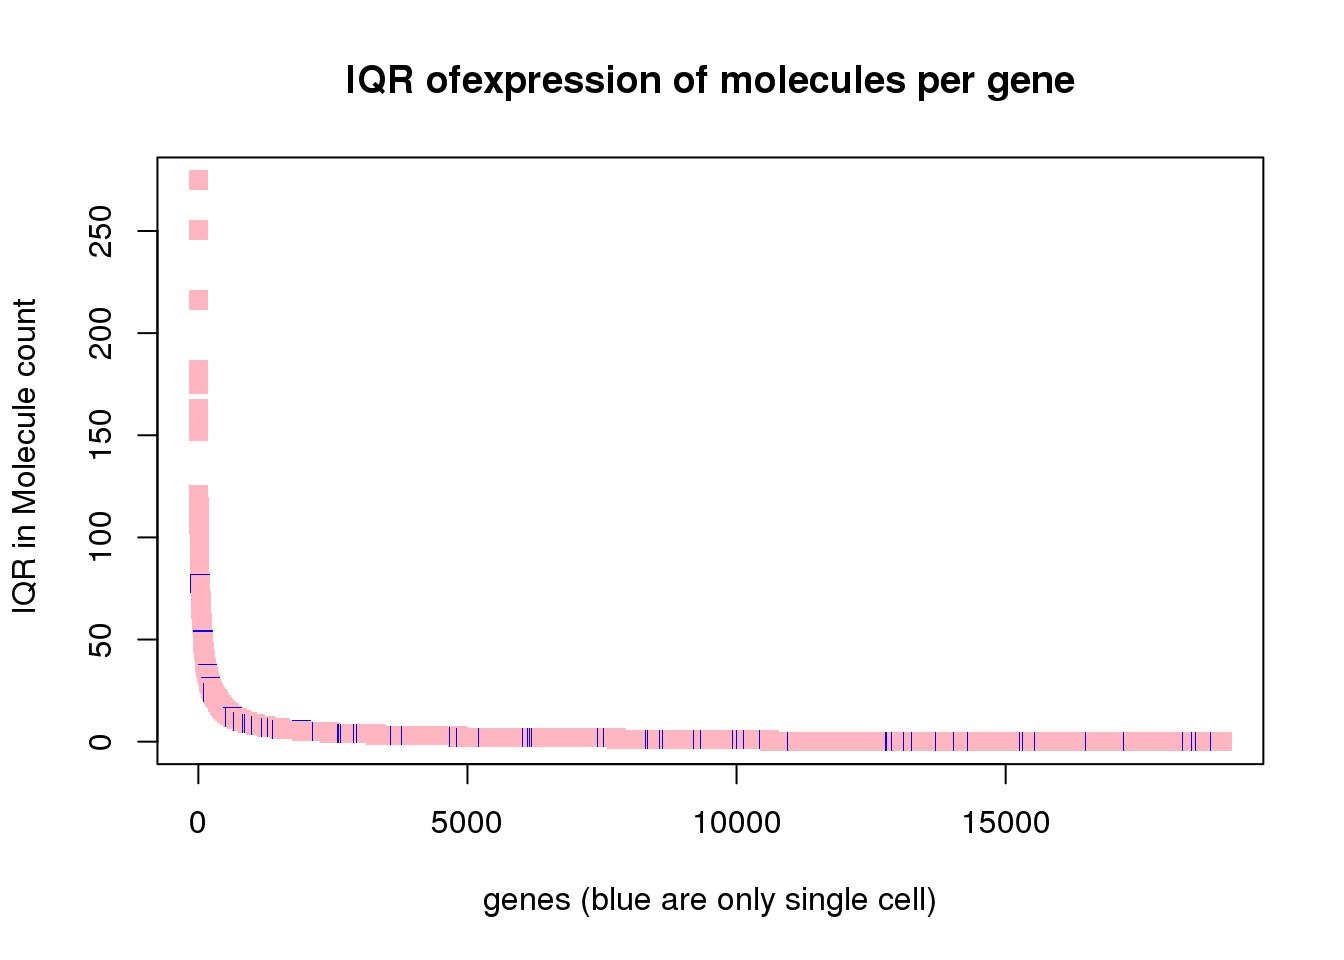
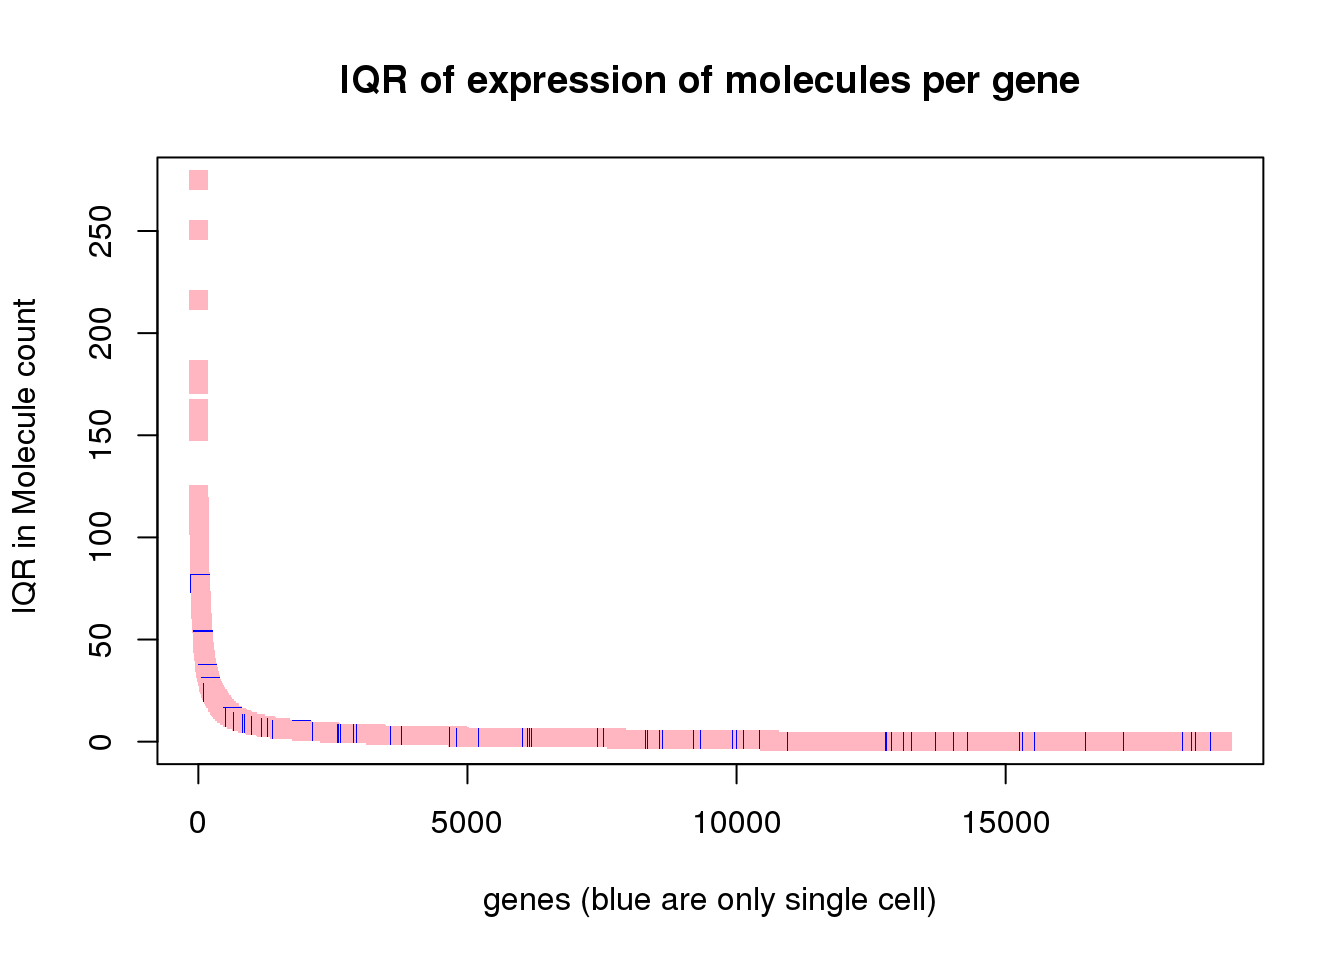
Build site.

Changed region(s): [[0.25, 0.0625, 0.8125, 0.125]]

diff --git a/docs/explore_bulkvsingle_gene.html b/docs/explore_bulkvsingle_gene.html
@@ -310,7 +310,7 @@ div.tocify {
 
 
 <p><strong>Last updated:</strong> 2017-02-10</p>
-<p><strong>Code version:</strong> b7a5ff3</p>
+<p><strong>Code version:</strong> 493f288</p>
 <div id="pull-in-genes-lists" class="section level3">
 <h3>Pull in genes lists</h3>
 <pre class="r"><code>library(&quot;biomaRt&quot;)
@@ -343,13 +343,14 @@ genes_observed_molecules &lt;- rownames(molecules)[rowSums(molecules) &gt; 0]</c
                            filename = NULL, euler.d = FALSE, scaled = FALSE)
 grid.newpage()
 grid.draw(genes_venn)</code></pre>
-<p><img src="figure/explore_bulkvsingle_gene.Rmd/unnamed-chunk-157-1.png" width="672" style="display: block; margin: auto;" /></p>
+<p><img src="figure/explore_bulkvsingle_gene.Rmd/unnamed-chunk-4-1.png" width="672" style="display: block; margin: auto;" /></p>
 <pre class="r"><code>single_cell_observed &lt;- union(genes_observed_molecules, genes_observed_molecules)
 gene_onlybulk &lt;- setdiff(genes_observed_reads_bulk, single_cell_observed)
 gene_onlysinglecell &lt;- setdiff(single_cell_observed,genes_observed_reads_bulk)</code></pre>
 <p>There are 301 genes only seen in the bulk samples and 971 only seen in the single cells.</p>
-<div id="rank-genes" class="section level4">
-<h4>Rank genes</h4>
+</div>
+<div id="only-in-single-cell" class="section level3">
+<h3>Only in Single cell</h3>
 <p>Subset molecule count matrix for genes in genes only single cell</p>
 <pre class="r"><code>molecules_df= data.frame(molecules)
 molecules_only_SC &lt;- molecules_df[rownames(molecules_df) %in% gene_onlysinglecell,]</code></pre>
@@ -370,8 +371,8 @@ library(&quot;scales&quot;)
 
 
 
-plot((molecules_and_mean_order$molecules_mean) , pch=46, cex=10, col=col_vec_onlySC, main = &quot;Mean expression of molecules per gene&quot;, ylab=&quot; Molecule count&quot;, xlab = &quot;genes (blue are only single cell)&quot;)</code></pre>
-<p><img src="figure/explore_bulkvsingle_gene.Rmd/unnamed-chunk-160-1.png" width="672" style="display: block; margin: auto;" /></p>
+mean_expression &lt;- plot((molecules_and_mean_order$molecules_mean) , pch=46, cex=10, col=col_vec_onlySC, main = &quot;Mean expression of molecules per gene&quot;, ylab=&quot; Molecule count&quot;, xlab = &quot;genes (blue are only single cell)&quot;)</code></pre>
+<p><img src="figure/explore_bulkvsingle_gene.Rmd/unnamed-chunk-7-1.png" width="672" style="display: block; margin: auto;" /></p>
 <pre class="r"><code>#deal with IQR 
 
 molecule_IQR &lt;- apply(molecules, 1, IQR)
@@ -380,9 +381,24 @@ molecule_w.IQR &lt;- cbind(molecules_and_mean, molecule_IQR)
 molecules_and_IQR_order &lt;- arrange(molecule_w.IQR, desc(molecule_IQR))
 
 
-plot((molecules_and_IQR_order$molecule_IQR) , pch=46, cex=10, col=col_vec_onlySC, main = &quot;IQR ofexpression of molecules per gene&quot;, ylab=&quot; IQR in Molecule count&quot;, xlab = &quot;genes (blue are only single cell)&quot;)</code></pre>
-<p><img src="figure/explore_bulkvsingle_gene.Rmd/unnamed-chunk-161-1.png" width="672" style="display: block; margin: auto;" /></p>
+IQR_plot &lt;- plot((molecules_and_IQR_order$molecule_IQR) , pch=46, cex=10, col=col_vec_onlySC, main = &quot;IQR of expression of molecules per gene&quot;, ylab=&quot; IQR in Molecule count&quot;, xlab = &quot;genes (blue are only single cell)&quot;)</code></pre>
+<p><img src="figure/explore_bulkvsingle_gene.Rmd/unnamed-chunk-8-1.png" width="672" style="display: block; margin: auto;" /></p>
 </div>
+<div id="only-in-bulk" class="section level3">
+<h3>Only in Bulk</h3>
+<pre class="r"><code>bulk_mean &lt;- apply(reads_bulk, 1, mean)
+bulk_and_mean &lt;- cbind(reads_bulk, bulk_mean)
+#sort genes and mean by expression
+bulk_and_order &lt;- arrange(bulk_and_mean, desc(bulk_mean))
+
+                               
+                               
+which_onlyBULK &lt;- as.numeric(rownames(bulk_and_mean) %in% gene_onlybulk) + 1
+col_vec_onlyBULK &lt;- c(&quot;lightpink&quot;, &quot;blue&quot;)[as.numeric(which_onlyBULK)]
+
+
+plot((bulk_and_order$bulk_mean) , pch=46, cex=10, col=col_vec_onlyBULK, main = &quot;Mean expression of reads in bulk samples&quot;, ylab=&quot; read count&quot;, xlab = &quot;genes (blue are only bulk genes)&quot;)</code></pre>
+<p><img src="figure/explore_bulkvsingle_gene.Rmd/unnamed-chunk-9-1.png" width="672" style="display: block; margin: auto;" /></p>
 </div>
 
 <hr>
